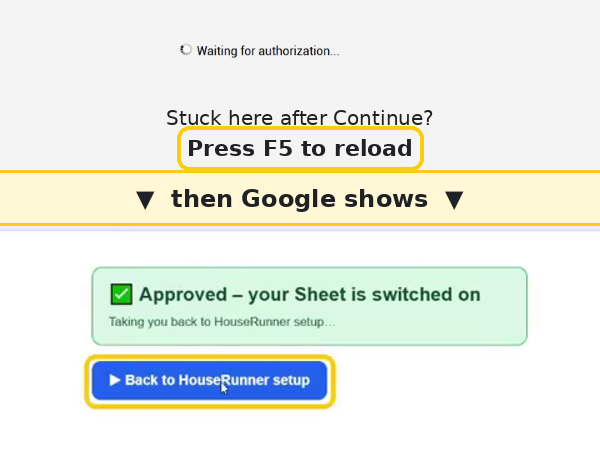
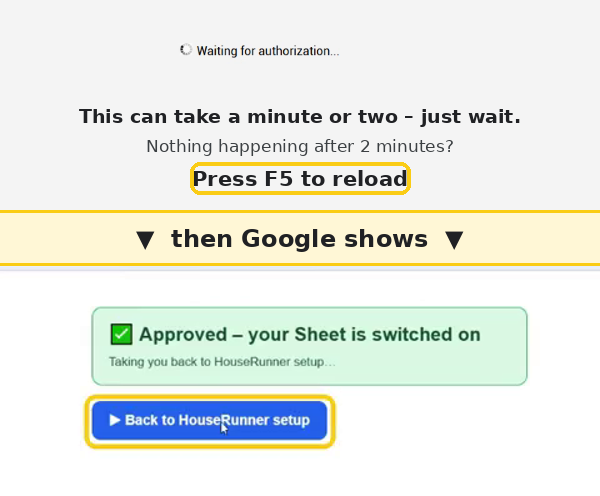
Floating Show me; approval in its own window; long-wait wording; close-this-pop-up finish
Claude-Session: https://claude.ai/code/session_01R2kV4GW3UVFR51NzUKtdLQ

Changed region(s): [[0.0, 0.2149, 1.0, 0.5526], [0.12, 0.5833, 0.9, 0.9211], [0.3, 0.0921, 0.57, 0.1228]]

diff --git a/setup/guide/auto.js b/setup/guide/auto.js
@@ -115,11 +115,11 @@
                 ['Agree the permissions it needs <a href="#" data-why="inst">(see why)</a>', 'h-consent-inst2.png', '<b>Select all</b>, scroll down, <b>Continue</b>']]) +
             '<p>' + showBtn('perms', 'Show me', 'one short video of the whole of this step') + '</p>' +
             '<div class="row"><button class="btn" id="go">' + (S.sheetId ? 'Approve Installer App permissions and carry on' : 'Approve Installer App permissions') + '</button><span class="mute small" id="goMsg"></span></div></div>';
-        else if (k === 4) body = '<div class="card big"><h3>Sign into Google and the Main App, then approve its permissions</h3><p>Your Sheet is made and published. Now approve the <b>Main App</b> – your own copy of HouseRunner, which Google calls “HouseRunner App”. One click: this tab goes through Google’s pages below, then comes back here.</p>' +
+        else if (k === 4) body = '<div class="card big"><h3>Sign into Google and the Main App, then approve its permissions</h3><p>Your Sheet is made and published. Now approve the <b>Main App</b> – your own copy of HouseRunner, which Google calls “HouseRunner App”. One click: Google’s approval opens in its own window – go through the pages below there; this tab carries on by itself when it’s approved.</p>' +
             cols([['Review permissions', 'h-review.png', '“HouseRunner App (Unverified) needs your permission” – click <b>REVIEW PERMISSIONS</b>'],
                 ['Advanced, then Go to HouseRunner App (unsafe)', 'p-advanced.png', 'Expected – it’s your own copy. Click <b>Advanced</b>, then <b>Go to HouseRunner App (unsafe)</b>'],
                 ['Approve the permissions your Sheet needs <a href="#" data-why="app">(see why)</a>', 'h-consent2.png', '<b>Select all</b>, scroll down, <b>Continue</b>'],
-                ['Wait, then back to setup', 'h-waitback.png', 'Wait for “Waiting for authorization…” (stuck? press <b>F5</b>), then click <b>▶ Back to HouseRunner setup</b>']]) +
+                ['Wait – can take a minute or two – then back to setup', 'h-waitback.png', '“Waiting for authorization…” <b>can take a minute or two</b> – only press <b>F5</b> if nothing happens after 2 minutes. Then click <b>▶ Back to HouseRunner setup</b>']]) +
             '<p>' + showBtn('approve', 'Show me, step by step', 'a small window with a short clip and instructions for each step') + '</p>' +
             '<div class="row"><button class="btn" id="approve">Sign into the Main App</button><span class="mute" id="watch"></span></div></div>';
         else if (k === 5 && !S.answered) body = S.manual ? manualCard() : finishCard();
@@ -355,11 +355,28 @@
         });
     }
     /** 🎬 Show me: a small window beside this one with a clip or picture of each click (helper.html); it follows along by itself */
+    /** 🎬 Show me: a small window with a clip or picture of each click (helper.html), following along by itself.
+     *  Where the browser can (Chrome, Edge) it floats on top of everything, so it never hides behind Google's windows;
+     *  elsewhere it's an ordinary small window. */
+    var pip = null;
     function showMe(set) {
-        var w = 400, h = Math.max(520, Math.min(760, (screen.availHeight || 900) - 140));
-        if (set === 'perms') { w = 680; h = Math.min(h, 720); }
-        var win = window.open('helper.html' + (set ? '?set=' + set : ''), 'hrhelper' + (set || ''), 'popup,width=' + w + ',height=' + h + ',left=' + Math.max(0, (screen.availWidth || 1200) - w - 16) + ',top=60');
-        if (!win) toastish('Your browser blocked the small window – allow pop-ups for houserunner.app, then click again.'); else try { win.focus(); } catch (e) { /* fine */ }
+        var w = set === 'perms' ? 640 : 400, h = Math.max(520, Math.min(set === 'perms' ? 700 : 760, (screen.availHeight || 900) - 140));
+        var url = 'helper.html' + (set ? '?set=' + set : '');
+        if (window.documentPictureInPicture) {
+            try { if (pip && !pip.closed) pip.close(); } catch (e) { /* fine */ }
+            documentPictureInPicture.requestWindow({ width: w, height: h }).then(function (pw) {
+                pip = pw;
+                pw.document.body.style.cssText = 'margin:0;background:#0f141b';
+                var f = pw.document.createElement('iframe'); f.src = new URL(url, location.href).href;
+                f.style.cssText = 'border:0;width:100vw;height:100vh;display:block'; pw.document.body.appendChild(f);
+            }, function () { plain(); });
+            return;
+        }
+        plain();
+        function plain() {
+            var win = window.open(url, 'hrhelper' + (set || ''), 'popup,width=' + w + ',height=' + h + ',left=' + Math.max(0, (screen.availWidth || 1200) - w - 16) + ',top=60');
+            if (!win) toastish('Your browser blocked the small window – allow pop-ups for houserunner.app, then click again.'); else try { win.focus(); } catch (e) { /* fine */ }
+        }
     }
     function toastish(t) { var n = document.createElement('div'); n.className = 'note warn'; n.textContent = t; app.insertBefore(n, app.firstChild); setTimeout(function () { n.remove(); }, 8000); }
     var SHOWME = '<button class="btn ghost sm" data-showme type="button">🎬 Show me</button> <span class="mute small">– a small window with a short clip of each click</span>';
@@ -367,7 +384,7 @@
     /** Google's screens, in order: a numbered headline above each picture */
     function cols(list) {
         return '<div class="hri-cols">' + list.map(function (c, n) {
-            return '<figure><div class="hc-h"><span class="hc-n">' + (n + 1) + '</span><span>' + c[0] + '</span></div><img src="../../shared/brand/steps/' + c[1] + '?v=355" alt=""><figcaption>' + c[2] + '</figcaption></figure>';
+            return '<figure><div class="hc-h"><span class="hc-n">' + (n + 1) + '</span><span>' + c[0] + '</span></div><img src="../../shared/brand/steps/' + c[1] + '?v=367" alt=""><figcaption>' + c[2] + '</figcaption></figure>';
         }).join('') + '</div>';
     }
     /** "(see why)": what each permission is for, in a box over the page */
@@ -389,7 +406,23 @@
 
     /** Approval happens in this same tab (a separate window couldn't be closed for you once Google had shown its pages in it).
      *  The script's "Approved" page then brings this tab straight back to setup (#approved), which checks it and carries on. */
-    function approve() { note('approve: going to Google'); stage('google2'); stage.now = 'google2'; save(); location.href = S.url + '?hrbeta=1'; }
+    function approve() {
+        note('approve: going to Google'); stage('google2'); stage.now = 'google2'; S.approving = Date.now(); save();
+        var w = Math.min(720, (screen.availWidth || 1200) - 460), h = Math.min(820, (screen.availHeight || 900) - 80);
+        var win = window.open(S.url + '?hrbeta=1', 'hrapprove', 'popup,width=' + w + ',height=' + h + ',left=40,top=40');
+        if (!win) { location.href = S.url + '?hrbeta=1'; return; }      // pop-ups blocked: this tab goes instead, and comes back as before
+        draw('<div class="note" style="font-size:17px">⏳ <b>Google’s approval is open in its own window.</b> Work through it there – this tab carries on by itself when it’s approved. <span class="mute small">Can’t see it? It may be behind this window.</span></div>');
+    }
+    /* The approval window's last page (approved.html) says so here, with the access code */
+    window.addEventListener('storage', function (e) {
+        if (e.key !== 'hrinstall.approved' || !e.newValue || !app) return;
+        var d = {}; try { d = JSON.parse(e.newValue); } catch (x) { return; }
+        if (!S.url || S.answered) return;                                   // not this tab's install – let the window carry on to setup itself
+        try { localStorage.setItem('hrinstall.ack', String(d.at)); } catch (x) { /* fine */ }
+        note('approved (from the approval window)'); stage('checking');
+        if (d.code) S.code = d.code; S.approved = true; save();
+        draw('<div class="note ok">✅ <b>Approved.</b> One last click below.</div>');
+    });
     /** Does the published script answer, and has its first visit set the Sheet up? (Before approval, Google answers with a sign-in page, not HouseRunner.) */
     var lastPing = '';
     function check(quiet) {

diff --git a/setup/guide/helper.html b/setup/guide/helper.html
@@ -32,8 +32,8 @@ button:disabled{opacity:.4;cursor:default}
  * and "Done – next" moves it on where it can't tell (the clicks in Google's own windows).
  * Where a picture shows Google's screens, the account shown is marked "your own Google email": the person sees theirs. */
 (function () {
-    var V = '../../shared/brand/steps/', REV = '366';
-    var SETUP = '🏠 In the <b>HouseRunner setup</b> tab', GWIN = '🔐 In <b>Google’s window</b>', GTAB = '🔐 <b>Google</b>, in the HouseRunner setup tab';
+    var V = '../../shared/brand/steps/', REV = '367';
+    var SETUP = '🏠 In the <b>HouseRunner setup</b> tab', GWIN = '🔐 In <b>Google’s window</b>', GTAB = '🔐 In <b>Google’s approval window</b>';
     // [stage, where, what to click, help, media (one, or several shown in turn)]
     var STEPS = [
         ['start', SETUP, 'Click <b>Sign in to Google</b>', 'Use the Google account you want the dashboard in – ideally the one with your family calendar. Already signed in? Google just checks which account and brings you straight back.', 'h-signin.mp4'],
@@ -63,7 +63,7 @@ button:disabled{opacity:.4;cursor:default}
             '<li><b>Select all</b>, scroll down to the bottom, click <b>Continue</b>. Google’s window closes and setup carries on.</li></ol>' +
             '<p class="mute">The video plays round and round – close this window whenever you like.</p></div>' +
             '<div class="ft"><span></span><button class="go" id="cl">✕ Close</button></div>';
-        document.getElementById('cl').onclick = function () { window.close(); };
+        document.getElementById('cl').onclick = function () { (window.top || window).close(); };
         return;
     }
     // "Approve HouseRunner App's permissions": step by step, a short clip and the words for each
@@ -71,19 +71,19 @@ button:disabled{opacity:.4;cursor:default}
         ['google2', GTAB, 'Click <b>REVIEW PERMISSIONS</b>', 'Google says “HouseRunner App (Unverified) needs your permission”. That’s your own private copy of HouseRunner – click the blue <b>REVIEW PERMISSIONS</b>.', 'h-review.mp4'],
         ['google2', GWIN, '<b>Advanced</b>, then <b>Go to HouseRunner App (unsafe)</b>', 'Google says it hasn’t verified the app – expected, it’s your own private copy of HouseRunner. Click <b>Advanced</b> (bottom left), then the link <b>Go to HouseRunner App (unsafe)</b>. <span class="mute">(If Google asks which account first, click yours.)</span>', 'v-a-unsafe.mp4'],
         ['google2', GWIN, 'Tick <b>Select all</b>, scroll down, click <b>Continue</b>', 'A yellow box says the app isn’t verified yet – expected. Every permission is needed (setup’s “see why” explains each one). Then scroll to the bottom and click <b>Continue</b>.', 'v-a-consent.mp4'],
-        ['google2', GTAB, 'Wait, then click <b>▶ Back to HouseRunner setup</b>', 'Google shows “Waiting for authorization…” for a few seconds – <b>stuck?</b> Press <b>F5</b>. Then it shows <b>✅ Approved</b>: click <b>▶ Back to HouseRunner setup</b>.', 'v-a-wait.mp4'],
-        ['done', SETUP, '✅ Approved', '<div class="done">Back in setup: one last click, <b>Finish publishing</b>. This window closes in a moment.</div>', 'i-finish.png']
+        ['google2', GWIN, 'Wait – it can take a minute or two – then click <b>▶ Back to HouseRunner setup</b>', 'Google shows “Waiting for authorization…”. <b>This can take a minute or two – just wait.</b> Only if nothing happens after 2 minutes, press <b>F5</b>. Then it shows <b>✅ Approved</b>: click <b>▶ Back to HouseRunner setup</b>.', 'v-a-wait.mp4'],
+        ['finish', SETUP, '✅ Approved – close this pop-up', '<div class="done">That’s the Main App approved. <b>Close this pop-up</b> and go back to the <b>HouseRunner setup</b> tab – click <b>Finish publishing</b> there.</div><p><button class="go" type="button" onclick="(window.top || window).close()">✕ Close this pop-up</button></p>', 'i-finish.png']
     ];
     var FIRST = {}; STEPS.forEach(function (s, k) { if (!(s[0] in FIRST)) FIRST[s[0]] = k; });
-    FIRST.checking = SET === 'approve' ? 3 : FIRST.google2 + 3;      // back from Google, checking the Sheet: the last of Google's steps
-    if (SET === 'approve') { FIRST.approve = 0; FIRST.finish = 4; }
+    FIRST.checking = SET === 'approve' ? 4 : FIRST.google2 + 3;      // back from Google, checking the Sheet: the last of Google's steps
+    if (SET === 'approve') { FIRST.approve = 0; FIRST.finish = 4; FIRST.done = 4; FIRST.checking = 4; }
     var i = 0, cyc = 0, closeT = 0;
     function stageNow() { try { return localStorage.getItem('hrinstall.stage') || 'start'; } catch (e) { return 'start'; } }
     function follow() {
         var st = stageNow(), k = FIRST[st];
         if (k == null) return;
         if (k > i || st === 'api' || st === 'start') go(k);      // moves on by itself (and back only for the Apps Script switch)
-        if (st === 'done') { clearTimeout(closeT); closeT = setTimeout(function () { window.close(); }, 12000); }
+        if (st === 'done') { clearTimeout(closeT); closeT = setTimeout(function () { (window.top || window).close(); }, 12000); }
     }
     function media(m) {
         if (/\.mp4$/.test(m)) return '<video class="media" src="' + V + m + '?v=' + REV + '" autoplay muted loop playsinline></video>';
@@ -100,7 +100,7 @@ button:disabled{opacity:.4;cursor:default}
             '<div class="ft"><button class="gh" id="bk"' + (i ? '' : ' disabled') + '>← Back</button>' +
             (last ? '<button class="go" id="cl">✕ Close</button>' : '<button class="go" id="nx">Done – next →</button>') + '</div>';
         var on = function (id, f) { var b = document.getElementById(id); if (b) b.onclick = f; };
-        on('bk', function () { go(i - 1); }); on('nx', function () { go(i + 1); }); on('cl', function () { window.close(); });
+        on('bk', function () { go(i - 1); }); on('nx', function () { go(i + 1); }); on('cl', function () { (window.top || window).close(); });
         document.title = (i + 1) + ' – Show me – HouseRunner';
         clearInterval(cyc);
         if (list.length > 1) { var n = 0; cyc = setInterval(function () { n = (n + 1) % list.length; var m = document.getElementById('m'); if (m) m.innerHTML = media(list[n]); }, 2800); }

diff --git a/index.html b/index.html
@@ -24,11 +24,11 @@
         window.FD_DESK = true; window.FD_PHONE = !!phone;
     })();
     </script>
-    <link rel="stylesheet" href="shared/base.css?v=202611366">
-    <link rel="stylesheet" href="admin/admin.css?v=202611366">
-    <link rel="stylesheet" href="setup/desk.css?v=202611366">
-    <link rel="stylesheet" href="setup/editor.css?v=202611366">
-    <link rel="stylesheet" href="admin/phone.css?v=202611366">
+    <link rel="stylesheet" href="shared/base.css?v=202611367">
+    <link rel="stylesheet" href="admin/admin.css?v=202611367">
+    <link rel="stylesheet" href="setup/desk.css?v=202611367">
+    <link rel="stylesheet" href="setup/editor.css?v=202611367">
+    <link rel="stylesheet" href="admin/phone.css?v=202611367">
     <style>
 #landing { min-height: 100vh; }
 #landing .ld-wrap { max-width: 1100px; margin: 0 auto; padding: 30px 18px 50px; }
@@ -206,20 +206,20 @@
     </div></div>
     <!-- Connected: houserunner.app (computer) or Family Admin (phone) – the same app. -->
     <div id="app"></div>
-    <script src="shared/storecheck.js?v=202611366"></script>
-    <script src="shared/fd.js?v=202611366"></script>
-    <script src="dashboard/scripts/platform.js?v=202611366"></script>
-    <script src="shared/pair.js?v=202611366"></script>
-    <script src="shared/qrcode.js?v=202611366"></script>
-    <script src="shared/privacy.js?v=202611366"></script>
-    <script src="shared/countries.js?v=202611366"></script>
-    <script src="setup/config.js?v=202611366"></script>
-    <script src="help/topics.js?v=202611366"></script>
-    <script src="setup/editor.js?v=202611366"></script>
-    <script src="setup/calsetup.js?v=202611366"></script>
-    <script src="shared/icons.js?v=202611366"></script>
+    <script src="shared/storecheck.js?v=202611367"></script>
+    <script src="shared/fd.js?v=202611367"></script>
+    <script src="dashboard/scripts/platform.js?v=202611367"></script>
+    <script src="shared/pair.js?v=202611367"></script>
+    <script src="shared/qrcode.js?v=202611367"></script>
+    <script src="shared/privacy.js?v=202611367"></script>
+    <script src="shared/countries.js?v=202611367"></script>
+    <script src="setup/config.js?v=202611367"></script>
+    <script src="help/topics.js?v=202611367"></script>
+    <script src="setup/editor.js?v=202611367"></script>
+    <script src="setup/calsetup.js?v=202611367"></script>
+    <script src="shared/icons.js?v=202611367"></script>
     <!-- A phone gets Family Admin, written for the phone; a computer houserunner.app. -->
-    <script>document.write('<script src="admin/' + (window.FD_PHONE ? 'phone' : 'app') + '.js?v=202611366"><\/script>');</script>
+    <script>document.write('<script src="admin/' + (window.FD_PHONE ? 'phone' : 'app') + '.js?v=202611367"><\/script>');</script>
 <script>
  (function () {
    'use strict';

diff --git a/setup/guide/approved.html b/setup/guide/approved.html
@@ -1,0 +1,21 @@
+<!doctype html>
+<html lang="en-GB"><head><meta charset="utf-8"><meta name="robots" content="noindex"><meta name="viewport" content="width=device-width,initial-scale=1">
+<title>Approved – HouseRunner</title>
+<style>body{font:17px/1.5 Arial,sans-serif;max-width:560px;margin:60px auto;padding:0 20px;color:#222}.ok{background:#dcfce7;border:1px solid #16a34a;border-radius:14px;padding:18px 22px;color:#14532d}h1{font-size:24px;margin:0 0 6px}</style></head>
+<body><div class="ok"><h1>✅ Approved</h1><p id="m">Passing this back to HouseRunner setup…</p></div>
+<script>
+/* The Sheet's "Approved" page sends people here (in the approval window). Tell the HouseRunner setup tab – with the
+   Sheet's access code – then close this window. No setup tab answering (it was opened in this same tab)? Go to setup. */
+(function () {
+    var h = location.hash, code = decodeURIComponent((h.match(/[#&]code=([^&]+)/) || [])[1] || ''), at = Date.now();
+    try { history.replaceState(null, '', location.pathname); } catch (e) { /* fine */ }
+    try { localStorage.setItem('hrinstall.approved', JSON.stringify({ at: at, code: code })); } catch (e) { /* fine */ }
+    setTimeout(function () {
+        var ack = ''; try { ack = localStorage.getItem('hrinstall.ack'); } catch (e) { /* fine */ }
+        if (ack === String(at)) {
+            window.close();
+            setTimeout(function () { document.getElementById('m').innerHTML = '<b>You can close this window</b> – HouseRunner setup has carried on in its own tab.'; }, 300);
+        } else location.replace('./#approved' + (code ? '&code=' + encodeURIComponent(code) : ''));
+    }, 900);
+})();
+</script></body></html>

diff --git a/setup/guide/index.html b/setup/guide/index.html
@@ -6,8 +6,8 @@
     <title>HouseRunner setup</title>
     <meta name="theme-color" content="#0c0e12">
     <link rel="icon" href="../../shared/brand/icon-192.png"><link rel="apple-touch-icon" href="../../shared/brand/apple-touch-icon.png">
-    <link rel="stylesheet" href="../editor.css?v=202611366">
-    <link rel="stylesheet" href="setup.css?v=202611366">
+    <link rel="stylesheet" href="../editor.css?v=202611367">
+    <link rel="stylesheet" href="setup.css?v=202611367">
 </head>
 <body>
     <header class="cfg-top"><a class="cfg-title hr-title" href="../../"><img src="../../shared/brand/mark.svg" alt="" class="hr-mini"><span>House<span class="hr-acc">Runner</span></span></a><a class="cfg-dash" href="../../dashboard/" target="_blank" rel="noopener">▶ Dashboard</a><a class="cfg-help" href="../../help/" target="_blank" rel="noopener">❓ Help</a></header>
@@ -29,11 +29,11 @@
     <script src="../../shared/countries.js"></script>
     <script src="../../shared/pair.js"></script>
     <script src="../../shared/qrcode.js"></script>
-    <script src="../calsetup.js?v=202611366"></script>
-    <script src="../../shared/storecheck.js?v=202611366"></script>
+    <script src="../calsetup.js?v=202611367"></script>
+    <script src="../../shared/storecheck.js?v=202611367"></script>
     <script src="https://accounts.google.com/gsi/client" async defer></script>
-    <script src="auto.js?v=202611366"></script>
-    <script src="float.js?v=202611366"></script>
-    <script src="setup.js?v=202611366"></script>
+    <script src="auto.js?v=202611367"></script>
+    <script src="float.js?v=202611367"></script>
+    <script src="setup.js?v=202611367"></script>
 </body>
 </html>

diff --git a/sw.js b/sw.js
@@ -1,6 +1,6 @@
 /* Keeps houserunner.app (the Configurator / Family Admin) available offline. Family data always comes live from Google.
  * The screen, the Family Calendar app and the licence pages look after themselves, so they're left alone here. */
-const CACHE = 'root-v221';
+const CACHE = 'root-v222';
 const FILES = ["./", "index.html", "manifest.webmanifest", "admin/app.js", "admin/phone.js", "admin/phone.css", "admin/admin.css", "admin/icons/icon-192.png", "setup/desk.css", "setup/editor.css", "setup/editor.js", "setup/calsetup.js", "setup/config.js",
   "help/topics.js", "shared/fd.js", "shared/head.js", "shared/storecheck.js", "shared/move.js", "shared/busy.js", "shared/base.css", "shared/brand/mark.svg", "shared/privacy.js", "shared/countries.js", "shared/icons.js", "shared/pair.js", "shared/qrcode.js"];
 const OWN = /^\/(screen|dashboard|calendar|licencing|windows|downloads|Scripts)\//;

diff --git a/admin/sw.js b/admin/sw.js
@@ -1,5 +1,5 @@
 /* Keeps the app itself available offline. Calendar and points data always come live from Google. */
-const CACHE = 'admin-v370';
+const CACHE = 'admin-v371';
 const FILES = ["./", "index.html", "app.js", "admin.css", "manifest.webmanifest", "icons/icon-192.png", "../shared/fd.js", "../shared/storecheck.js", "../shared/move.js", "../shared/base.css", "../shared/brand/symbol.svg", "../shared/privacy.js", "../shared/countries.js", "../shared/pair.js", "../shared/qrcode.js"];
 self.addEventListener('install', e => { e.waitUntil(caches.open(CACHE).then(c => c.addAll(FILES)).then(() => self.skipWaiting())); });
 self.addEventListener('activate', e => { e.waitUntil(caches.keys().then(ks => Promise.all(ks.filter(k => k.startsWith('admin-') && k !== CACHE).map(k => caches.delete(k)))).then(() => self.clients.claim())); });

diff --git a/calendar/sw.js b/calendar/sw.js
@@ -1,5 +1,5 @@
 /* Keeps the app itself available offline. Calendar and points data always come live from Google. */
-const CACHE = 'calendar-v358';
+const CACHE = 'calendar-v359';
 const FILES = ["./", "index.html", "app.js", "calendar.css", "manifest.webmanifest", "icons/icon-192.png", "../shared/fd.js", "../shared/storecheck.js", "../shared/move.js", "../shared/base.css", "../shared/brand/symbol.svg", "../shared/pair.js", "../shared/qrcode.js"];
 self.addEventListener('install', e => { e.waitUntil(caches.open(CACHE).then(c => c.addAll(FILES)).then(() => self.skipWaiting())); });
 self.addEventListener('activate', e => { e.waitUntil(caches.keys().then(ks => Promise.all(ks.filter(k => k.startsWith('calendar-') && k !== CACHE).map(k => caches.delete(k)))).then(() => self.clients.claim())); });

diff --git a/shared/fd.js b/shared/fd.js
@@ -191,7 +191,7 @@
         clearConfig: function () { cfg = {}; try { localStorage.removeItem(KEY); } catch (e) { /* ignore */ } },
         parseSetup: parseSetup,
 
-        VERSION: '2026.11.366',     // the phone apps' version (same number as the screen's)
+        VERSION: '2026.11.367',     // the phone apps' version (same number as the screen's)
         get: function (action, params, timeout) {
             var q = 'action=' + encodeURIComponent(action) + '&code=' + encodeURIComponent(cfg.code) + '&t=' + Date.now();
             Object.keys(params || {}).forEach(function (k) { q += '&' + k + '=' + encodeURIComponent(params[k]); });

diff --git a/dashboard/scripts/notices.js b/dashboard/scripts/notices.js
@@ -6,7 +6,7 @@
  */
 (function () {
     'use strict';
-    var APP_VERSION = '2026.11.366';
+    var APP_VERSION = '2026.11.367';
     var SNOOZE_KEY = 'familyDashboard.updateSnooze', SCRIPT_KEY = 'familyDashboard.scriptNag';
     var latest = null, lastLayout = null, privacyOpen = false, lastTouch = Date.now(), updating = false;
     var IDLE_MS = 3 * 60000;
